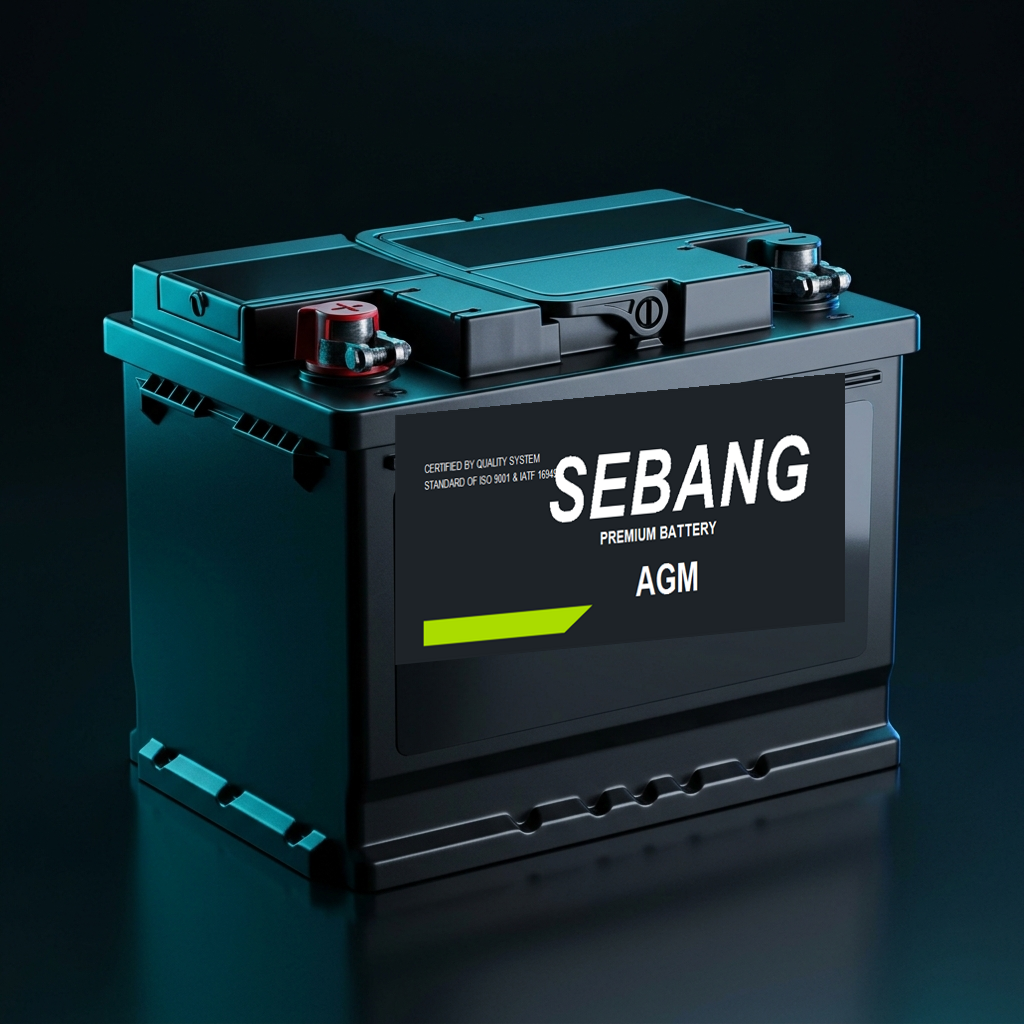
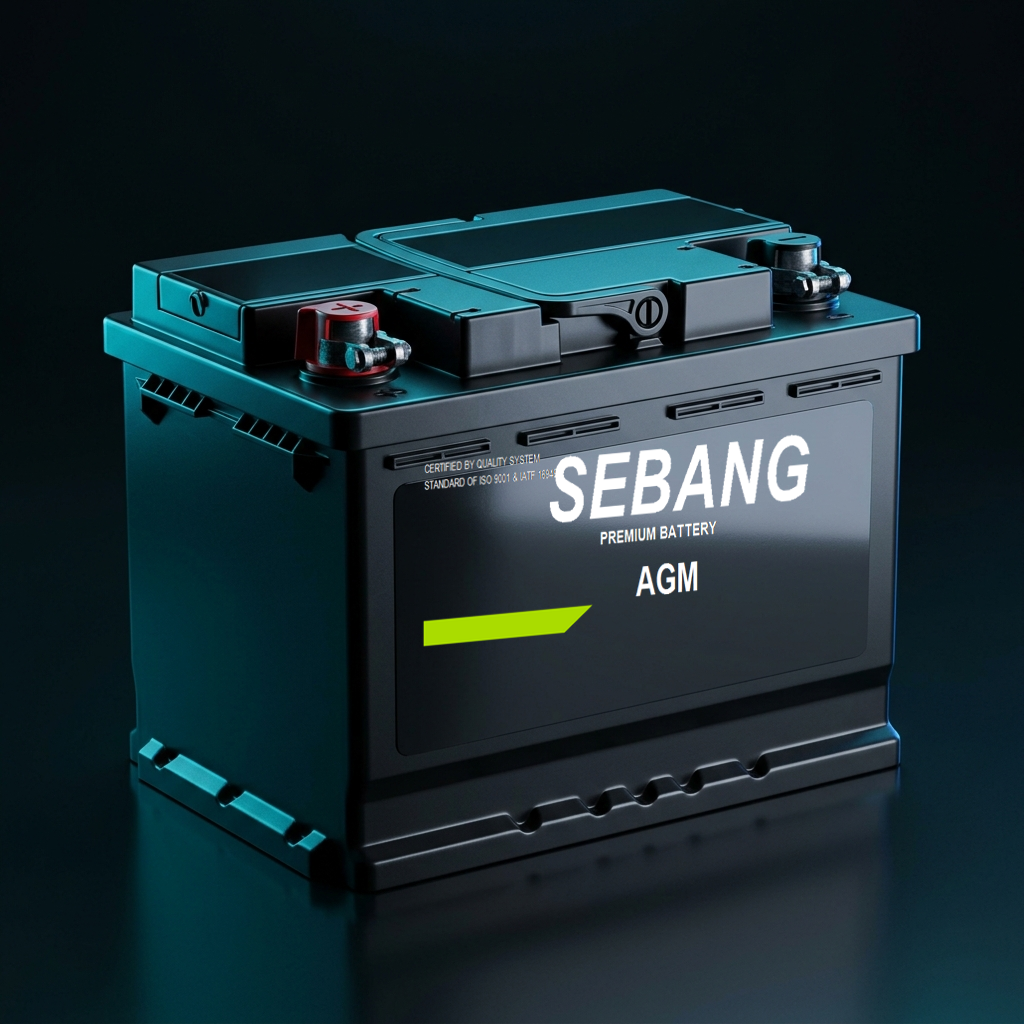
feat: perfectly integrate sebang label into 3D battery render by making label background transparent to preserve glossy reflections

Changed region(s): [[0.375, 0.3438, 0.8438, 0.5938]]

diff --git a/index.html b/index.html
@@ -98,7 +98,7 @@
                 </div>
                 <div class="about-image slide-in-right">
                     <div class="image-wrapper glassmorphism">
-                        <img src="assets/battery_sebang_final.png?v=4" alt="Seabang Premium" class="floating">
+                        <img src="assets/battery_sebang_final.png?v=5" alt="Seabang Premium" class="floating">
                     </div>
                 </div>
             </div>
@@ -120,7 +120,7 @@
                     <!-- Tüm Aküler -->
                     <a href="#products" class="sebang-card glassmorphism fade-in-up" draggable="false" style="text-decoration:none;">
                         <div class="sebang-img-wrapper">
-                            <img src="assets/battery_sebang_final.png?v=4" alt="Tüm Aküler" class="battery-base" style="width: 100%; height: auto;">
+                            <img src="assets/battery_sebang_final.png?v=5" alt="Tüm Aküler" class="battery-base" style="width: 100%; height: auto;">
                         </div>
                         <div class="sebang-card-content">
                             <div class="sebang-info">
@@ -134,7 +134,7 @@
                     <!-- Otomotiv -->
                     <a href="#products" class="sebang-card glassmorphism fade-in-up" draggable="false" style="transition-delay: 0.1s; text-decoration:none;">
                         <div class="sebang-img-wrapper">
-                            <img src="assets/battery_sebang_final.png?v=4" alt="Otomotiv Aküleri" class="battery-base" style="width: 100%; height: auto;">
+                            <img src="assets/battery_sebang_final.png?v=5" alt="Otomotiv Aküleri" class="battery-base" style="width: 100%; height: auto;">
                         </div>
                         <div class="sebang-card-content">
                             <div class="sebang-info">
@@ -148,7 +148,7 @@
                     <!-- Ticari -->
                     <a href="#products" class="sebang-card glassmorphism fade-in-up" draggable="false" style="transition-delay: 0.2s; text-decoration:none;">
                         <div class="sebang-img-wrapper">
-                            <img src="assets/battery_sebang_final.png?v=4" alt="Ticari Araç Aküleri" class="battery-base" style="width: 100%; height: auto;">
+                            <img src="assets/battery_sebang_final.png?v=5" alt="Ticari Araç Aküleri" class="battery-base" style="width: 100%; height: auto;">
                         </div>
                         <div class="sebang-card-content">
                             <div class="sebang-info">
@@ -162,7 +162,7 @@
                     <!-- Marin ve Karavan -->
                     <a href="#products" class="sebang-card glassmorphism fade-in-up" draggable="false" style="transition-delay: 0.3s; text-decoration:none;">
                         <div class="sebang-img-wrapper">
-                            <img src="assets/battery_sebang_final.png?v=4" alt="Marin ve Karavan Aküleri" class="battery-base" style="width: 100%; height: auto;">
+                            <img src="assets/battery_sebang_final.png?v=5" alt="Marin ve Karavan Aküleri" class="battery-base" style="width: 100%; height: auto;">
                         </div>
                         <div class="sebang-card-content">
                             <div class="sebang-info">
@@ -176,7 +176,7 @@
                     <!-- Bahçe ve Tarım -->
                     <a href="#products" class="sebang-card glassmorphism fade-in-up" draggable="false" style="transition-delay: 0.4s; text-decoration:none;">
                         <div class="sebang-img-wrapper">
-                            <img src="assets/battery_sebang_final.png?v=4" alt="Bahçe ve Tarım Aküleri" class="battery-base" style="width: 100%; height: auto;">
+                            <img src="assets/battery_sebang_final.png?v=5" alt="Bahçe ve Tarım Aküleri" class="battery-base" style="width: 100%; height: auto;">
                         </div>
                         <div class="sebang-card-content">
                             <div class="sebang-info">
@@ -190,7 +190,7 @@
                     <!-- Traksiyoner -->
                     <a href="#products" class="sebang-card glassmorphism fade-in-up" draggable="false" style="transition-delay: 0.5s; text-decoration:none;">
                         <div class="sebang-img-wrapper">
-                            <img src="assets/battery_sebang_final.png?v=4" alt="Traksiyoner Aküler" class="battery-base" style="width: 100%; height: auto;">
+                            <img src="assets/battery_sebang_final.png?v=5" alt="Traksiyoner Aküler" class="battery-base" style="width: 100%; height: auto;">
                         </div>
                         <div class="sebang-card-content">
                             <div class="sebang-info">
@@ -302,7 +302,7 @@
         <div class="container">
             <div class="features-wrapper">
                 <div class="features-image slide-in-left">
-                    <img src="assets/sebang_detailed_exploded_final.png?v=4" alt="Battery Internals">
+                    <img src="assets/sebang_detailed_exploded_final.png?v=5" alt="Battery Internals">
                 </div>
                 <div class="features-content slide-in-right">
                     <h4 class="section-subtitle">Kalitenin Anatomisi</h4>
